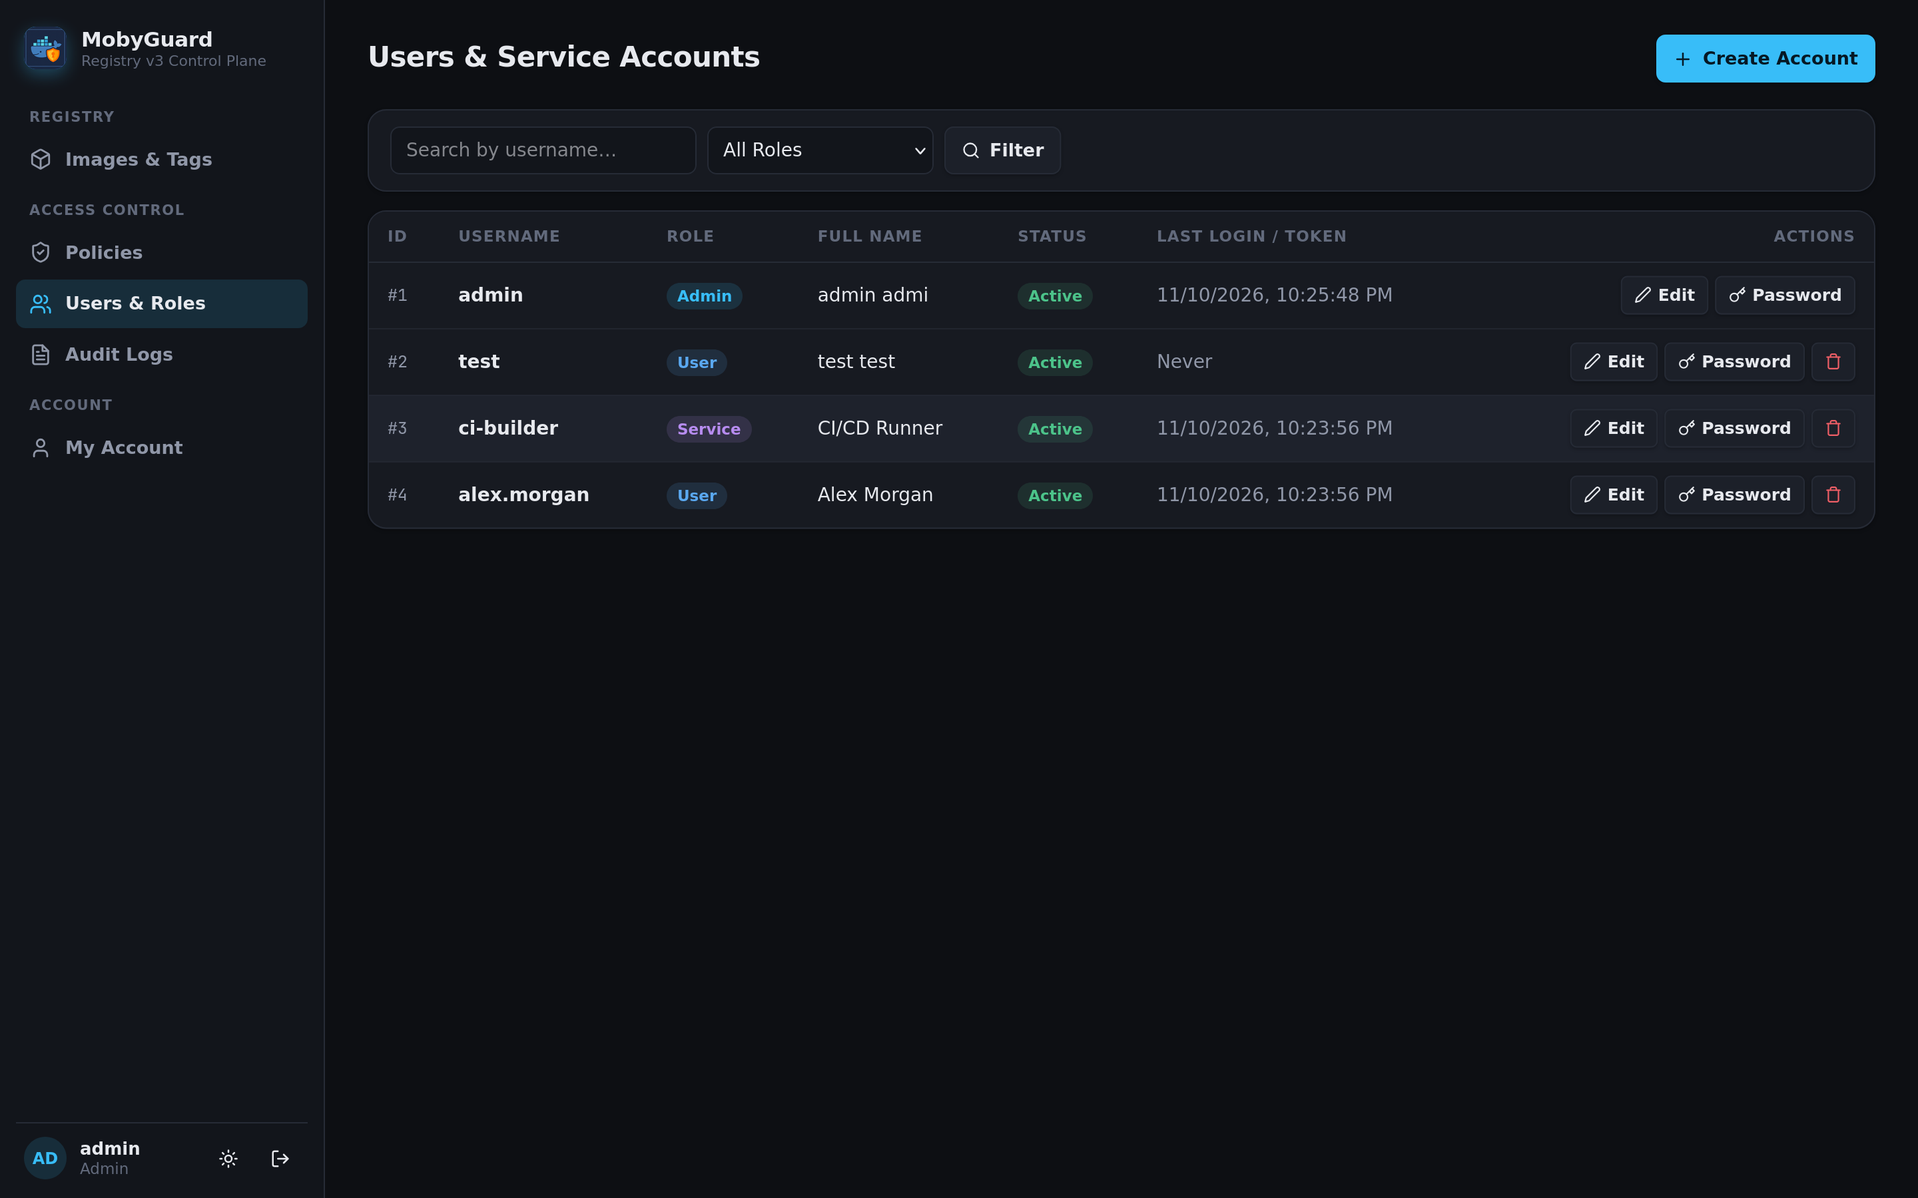
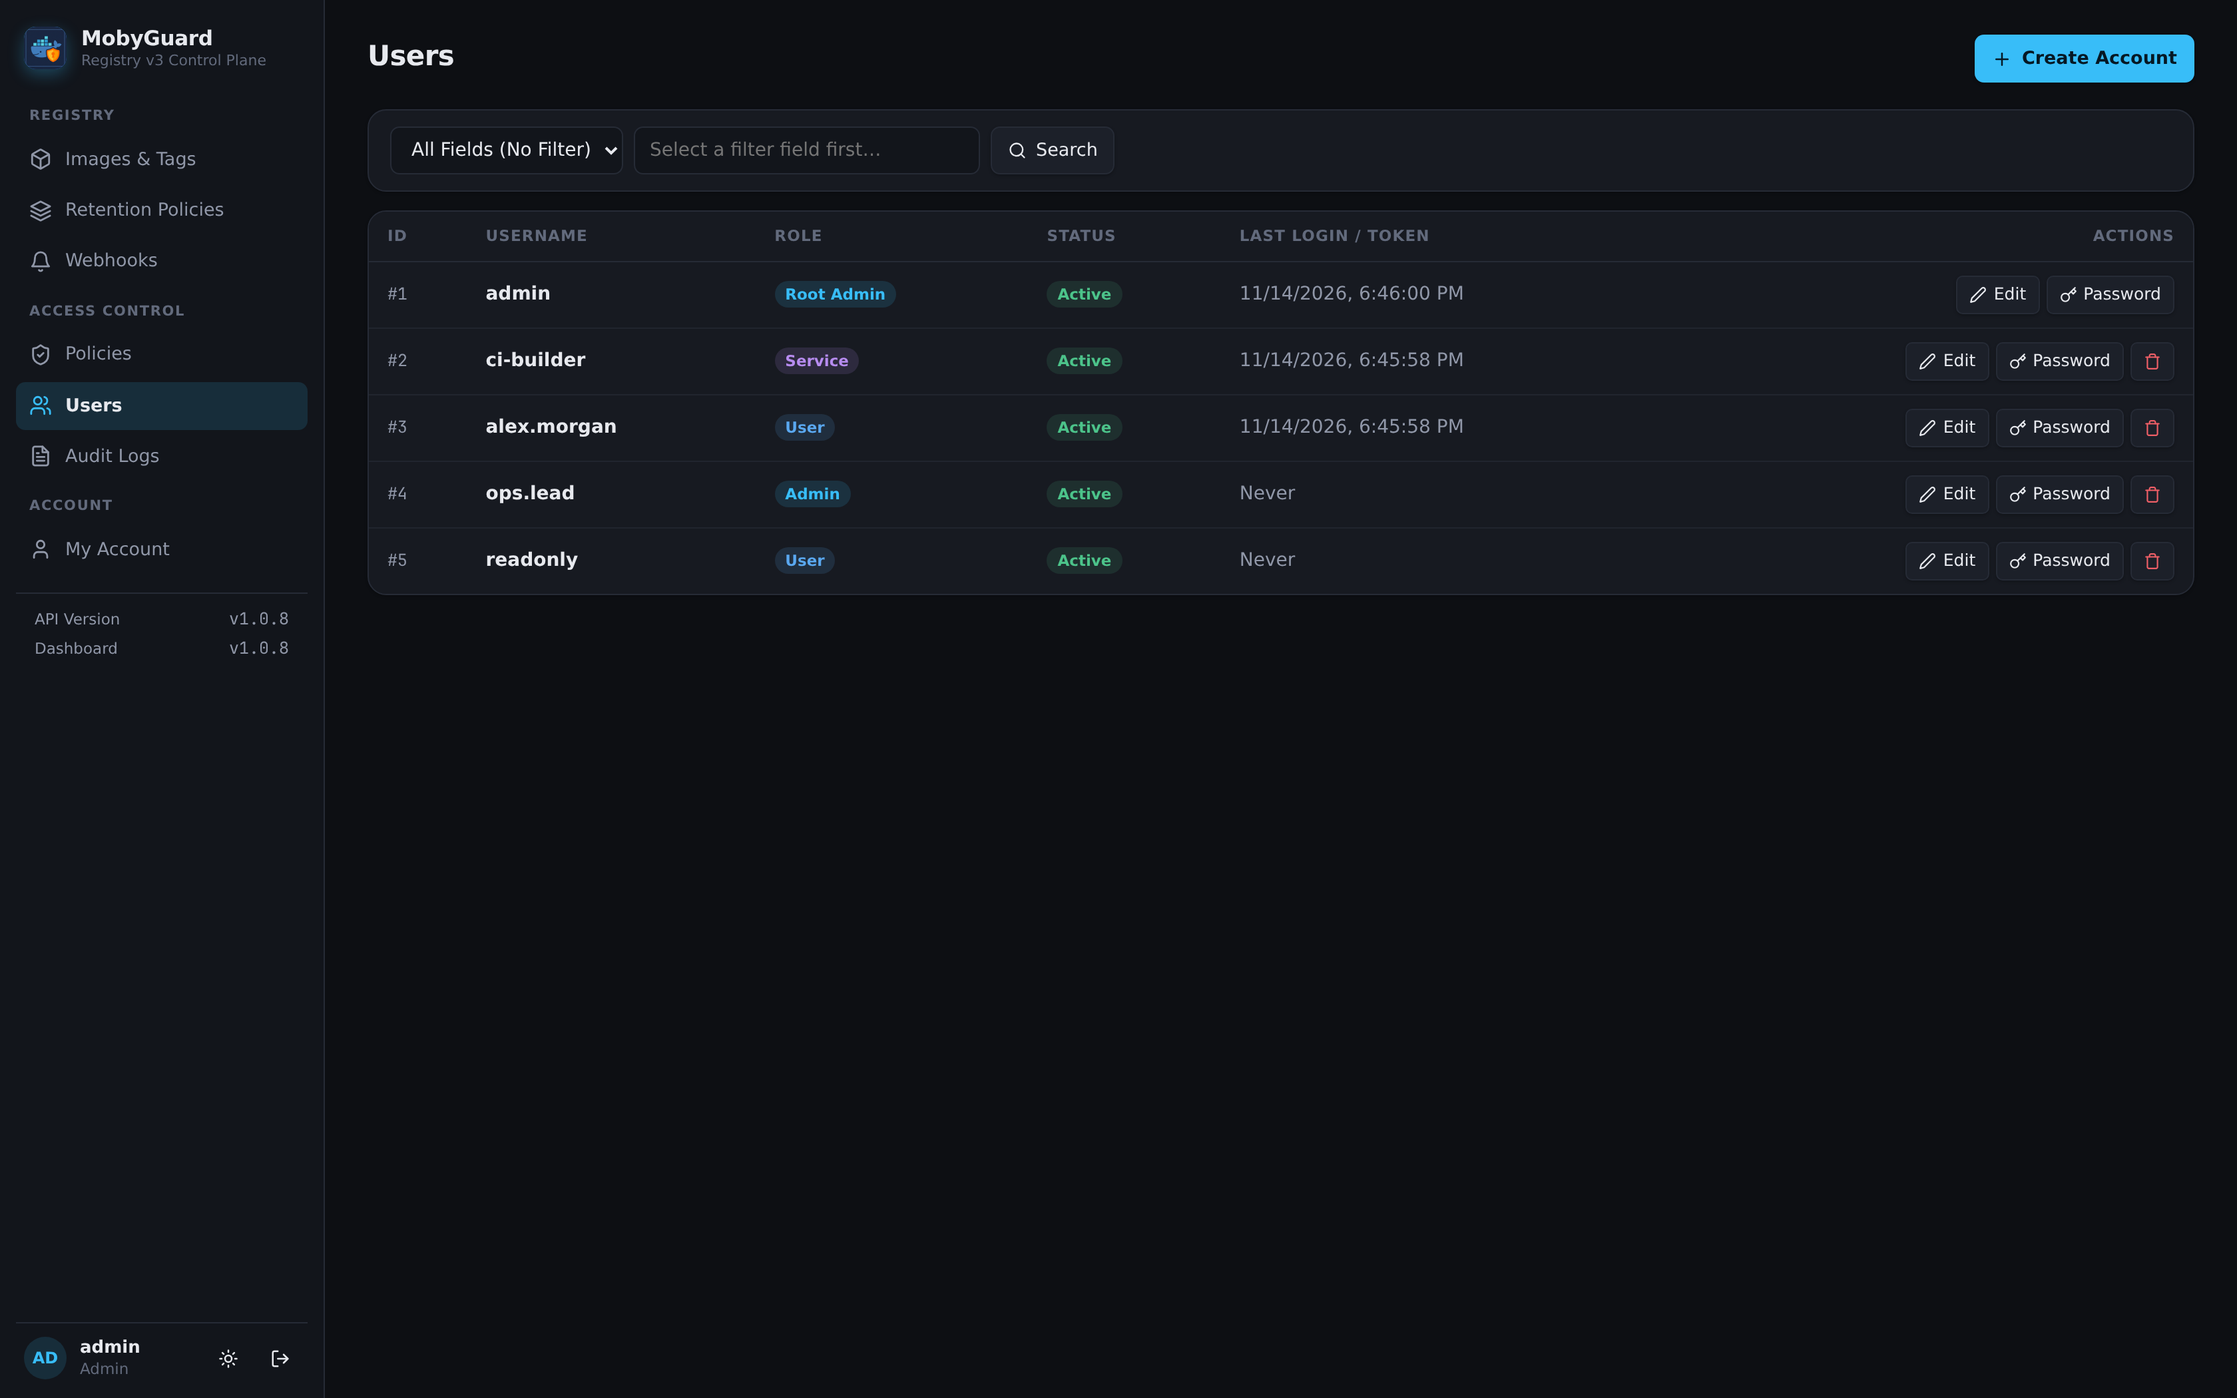
docs: update README, config templates, and UI screenshots for v1.0.8

diff --git a/README.md b/README.md
@@ -6,7 +6,7 @@
 
 <p align="center">
   <b>Lightweight, self-hosted Docker and OCI Registry Control Plane.</b><br />
-  Fine-grained repository access control, ECDSA token authentication, and management dashboard for Docker Distribution.
+  Fine-grained repository access control, ECDSA token authentication, automated tag retention, Slack/Discord/Teams notifications, and management dashboard for Docker Distribution.
 </p>
 
 <p align="center">
@@ -14,7 +14,7 @@
   <img src="https://img.shields.io/badge/React-19-61DAFB?logo=react&logoColor=black" alt="React 19" />
   <img src="https://img.shields.io/badge/Docker-Registry_v2%2Fv3-2496ED?logo=docker&logoColor=white" alt="Docker Registry" />
   <img src="https://img.shields.io/badge/SQLite-3-003B57?logo=sqlite&logoColor=white" alt="SQLite" />
-  <img src="https://img.shields.io/badge/coverage-87.4%25-brightgreen" alt="Code Coverage" />
+  <img src="https://img.shields.io/badge/coverage-86.85%25-brightgreen" alt="Code Coverage" />
   <img src="https://img.shields.io/badge/License-MIT-green.svg" alt="License" />
 </p>
 
@@ -31,13 +31,13 @@ Organizations deploying private Docker registries typically face two limitations
 * **Docker Registry & CNCF Distribution (`registry:2` / `registry:3`) Limitations**:
   * Relies on basic `htpasswd` authentication, granting all-or-nothing access to all images.
   * Lacks repository-level authorization and cannot restrict user permissions by namespace.
-  * Does not provide a web management interface for browsing tags, inspecting manifests, or deleting images.
+  * Does not provide a web management interface, automated tag cleanup policies, or webhook notifications.
 
 * **Enterprise Registry Suites (e.g., Harbor) Overhead**:
   * Requires substantial server resources (6 to 8 containers, 4GB to 8GB+ RAM).
   * Involves complex deployment charts and operational maintenance overhead.
 
-**MobyGuard provides a focused solution**: A lightweight, single-appliance control plane (~80MB RAM) that adds native Docker Registry v2 token authentication, fine-grained access control lists, and an administrative dashboard directly on top of vanilla Docker Distribution.
+**MobyGuard provides a focused solution**: A lightweight, single-appliance control plane (~80MB RAM) that adds native Docker Registry v2 token authentication, fine-grained access control lists, scheduled tag retention, multi-platform notifications, and an administrative dashboard directly on top of vanilla Docker Distribution.
 
 ---
 
@@ -52,57 +52,76 @@ Organizations deploying private Docker registries typically face two limitations
   * Per-user policy scoping supporting exact matches (`team-a/backend`), namespace wildcards (`team-a/*`), or global access (`*`).
   * Granular action control with independent toggles for **Pull**, **Push**, and **Delete** capabilities.
 
-* **Web Management Dashboard**:
-  * Catalog exploration with RFC 5988 pagination supporting large-scale registries (10,000+ repositories).
-  * OCI and Docker v2 manifest inspection, including media types, digest checksums, layer sizes, and container configurations.
-  * Image tag deletion workflows directly from the interface.
+* **Multi-Arch Web Management Dashboard & GC Tracking**:
+  * Single-flight catalog discovery with 15-second caching, RFC 5988 pagination, live search, and force refresh.
+  * OCI & Docker v2 manifest inspection with multi-architecture index platform switching (`linux/amd64`, `linux/arm64`, etc.), Buildx attestation classification, container configuration details, and layer breakdown.
+  * Pending Garbage Collection tracking banner with one-click copyable CLI cleanup command and admin GC acknowledgment.
 
-* **User and Service Account Management**:
-  * User account provisioning with role assignments (`Admin`, `User`).
-  * Dedicated headless accounts (`Service`) designed for CI/CD automation pipelines (GitHub Actions, GitLab CI, Drone).
+* **Automated Tag & Repository Retention Policies**:
+  * Pattern-scoped policies (`*`, `namespace/*`, exact repo) with configurable `Keep Last N` counts, `Max Age (Days)` thresholds, and comma-separated protected tag globs (e.g., `latest,v*,prod-*`).
+  * **Shared-Digest Safety**: Refuses to delete any manifest digest still referenced by a kept or protected tag.
+  * Interactive **Dry Run** previews plus a background scheduler supporting **Manual Only**, **Hourly**, **Daily**, **Weekly**, and **Monthly** intervals.
 
-* **Security Architecture**:
-  * High-iteration `PBKDF2-HMAC-SHA512` password hashing with unique per-user cryptographic salts.
-  * 15-minute JWT lifetime with SQLite-backed refresh token rotation and instant in-memory access token revocation.
-  * In-memory brute-force lockout protection via .NET `IMemoryCache`.
+* **Inbound Registry Events & Outbound Webhooks**:
+  * **Inbound Registry Webhook Receiver** (`POST /api/v1/Registry/events`): Ingests Docker Distribution notifications with optional constant-time `WebhookSecret` verification, records CLI `push` / `pull` / `delete` events with client IPs, and invalidates cached catalog/tags.
+  * **Outbound Webhook Notifications**: Delivers formatted notifications for **Slack** (Block Kit), **Discord** (rich embeds), and **Microsoft Teams** (Workflows Adaptive Cards) filtered by repository pattern and trigger (`Push`, `Delete`, `Retention`), with built-in test delivery status tracking.
+
+* **User, Service Account & Root Admin Governance**:
+  * Dedicated human (`Admin`, `User`) and headless CI/CD (`Service`) accounts, with bootstrap **Root Admin (`Id == 1`) protection** blocking deletion, demotion, deactivation, or modification by secondary admins.
+  * High-iteration `PBKDF2-HMAC-SHA512` password hashing, strict password complexity + common/username blacklist enforcement, 15-minute JWTs with single-use hashed refresh token rotation, and IP brute-force lockouts.
+  * Unified dropdown filter bars across Users, Policies, Retention Policies, Webhooks, and Audit Logs, plus light/dark themes.
 
 * **Audit Logging**:
-  * Structured audit trail recording token issuances, image deletions, user creations, and policy changes.
+  * Searchable audit trail recording token issuances, manifest pushes/pulls/deletes, user & policy mutations, retention executions, and GC acknowledgments.
 
 ---
 
 ## Screenshots
 
 ### Images & Manifest Inspector
-Browse catalog repositories, inspect OCI and Docker v2 image tags, examine layer sizes, and retrieve pull commands:
+Browse catalog repositories, inspect multi-arch OCI and Docker v2 manifests, examine layers and container config settings, and track pending garbage collection:
 
 <p align="center">
   <img src="docs/screenshots/repositories.png" alt="Images & Manifests" />
 </p>
 
+### Retention Policies & Scheduler
+Configure namespace-scoped tag cleanup rules, protect release tags, preview changes with Dry Run, and automate runs Hourly, Daily, Weekly, or Monthly:
+
+<p align="center">
+  <img src="docs/screenshots/retention-policies.png" alt="Retention Policies" />
+</p>
+
+### Outbound Webhooks (Slack, Discord & Microsoft Teams)
+Route repository `push`, `delete`, and `retention` notifications to Slack, Discord, or Microsoft Teams with live delivery testing:
+
+<p align="center">
+  <img src="docs/screenshots/webhooks.png" alt="Outbound Webhooks" />
+</p>
+
 ### Access Control Policies
-Manage per-user repository authorization rules with exact or wildcard (`namespace/*`) patterns and granular Pull, Push, and Delete toggles:
+Manage per-user repository authorization rules with exact or wildcard (`namespace/*`) patterns, dropdown filtering, and granular Pull, Push, and Delete toggles:
 
 <p align="center">
   <img src="docs/screenshots/policies.png" alt="Repository Access Control" />
 </p>
 
 ### User & Service Account Management
-Provision human operator accounts and dedicated headless service accounts for CI/CD automation pipelines:
+Provision human operator accounts with Root Admin protection and dedicated headless service accounts for CI/CD automation pipelines:
 
 <p align="center">
   <img src="docs/screenshots/users.png" alt="User Management" />
 </p>
 
 ### Audit Trail
-Monitor token issuances, administrative actions, client IP addresses, and timestamps:
+Monitor token issuances, CLI image pushes/pulls/deletes, retention runs, and administrative actions with client IP addresses and timestamps:
 
 <p align="center">
   <img src="docs/screenshots/audit-logs.png" alt="Audit Logs" />
 </p>
 
 ### Authentication Interface
-Clean sign-in interface with ECDSA token authentication and administrative onboarding:
+Clean sign-in interface with ECDSA token authentication and initial admin onboarding:
 
 <p align="center">
   <img src="docs/screenshots/login.png" alt="Sign In" />
@@ -128,21 +147,26 @@ Clean sign-in interface with ECDSA token authentication and administrative onboa
             /api/* (Control) │               │ 3. Stream Layers /v2/*
                              ▼               ▼    (Bearer Token Auth)
                    ┌───────────────────┐   ┌───────────────────┐
-                   │     MobyGuard     │   │  Docker Registry  │
+                   │     MobyGuard     │◄──┤  Docker Registry  │
                    │  (Auth & Web UI)  │   │ (registry:2 / v3) │
-                   └─────────┬─────────┘   └─────────┬─────────┘
-                             │                       │
-                             ▼                       ▼
-                       ┌───────────┐           ┌───────────┐
-                       │  SQLite   │           │  Storage  │
-                       │(Database) │           │  Volume   │
-                       └───────────┘           └───────────┘
+                   └────┬─────────┬────┘   └─────────┬─────────┘
+                        │         │ (Events /v1)     │
+                        │         ▼                  ▼
+                        │   ┌───────────┐      ┌───────────┐
+                        │   │  Slack /  │      │  Storage  │
+                        │   │  Discord  │      │  Volume   │
+                        │   │  / Teams  │      └───────────┘
+                        │   └───────────┘
+                        ▼
+                  ┌───────────┐
+                  │  SQLite   │
+                  │(Database) │
+                  └───────────┘
 ```
 
 * **Step 1 (Token Request)**: The Docker client requests an access token from MobyGuard (`/api/v1/Token`) using HTTP Basic authentication.
 * **Step 2 (Token Issuance)**: MobyGuard evaluates the user's repository permissions in SQLite and returns a cryptographically signed ECDSA `ES256` Bearer JWT.
-* **Step 3 (Layer Streaming)**: The Docker client presents the Bearer token directly to Docker Registry (`/v2/`), which verifies the signature and streams image layer blobs directly to storage.
-* **Control Plane Isolation**: MobyGuard handles authentication, authorization policy evaluation, user management, and dashboard operations without bottlenecking image layer transfers.
+* **Step 3 (Layer Streaming & Notifications)**: The Docker client presents the Bearer token directly to Docker Registry (`/v2/`), which verifies the signature and streams image layer blobs directly to storage. Optional Distribution notifications forward push/pull/delete events to MobyGuard (`POST /api/v1/Registry/events`), triggering audit logs, cache invalidation, and Slack/Discord/Teams alerts.
 
 ---
 
@@ -175,15 +199,6 @@ chmod 644 certs/*
   * Mounted into both MobyGuard and the Docker Registry container.
   * Docker Registry uses this certificate as its root trust bundle to verify the signature of incoming Bearer tokens without requiring access to the private key.
 
-#### Parameter Breakdown
-* `-x509`: Generates a self-signed X.509 certificate directly instead of a certificate signing request.
-* `-newkey ec -pkeyopt ec_paramgen_curve:prime256v1`: Generates an ECDSA private key using the NIST P-256 curve.
-* `-sha256`: Signs the certificate using the SHA-256 digest algorithm.
-* `-nodes`: Stores the private key unencrypted so container services can load it unattended on startup.
-* `-days 3650`: Sets a 10-year validity period for internal service authentication.
-* `-subj "/CN=mobyguard-token-issuer"`: Sets the subject Common Name matching the configured token issuer.
-* `chmod 644 certs/*`: Grants read access to the container process while preventing unauthorized host modifications.
-
 #### Upstream Docker Registry Configuration
 To configure Docker Registry (or CNCF Distribution) to authenticate via MobyGuard using this certificate, apply the following settings to your registry container:
 
@@ -199,8 +214,23 @@ volumes:
   - ./certs/registry-auth.crt:/certs/registry-auth.crt:ro
 ```
 
+*(Optional — Recommended for real-time audit logs, cache invalidation, GC tracking, and Slack/Discord/Teams push alerts)*: Configure Docker Distribution's webhook notifications to forward events to MobyGuard:
+
+```yaml
+notifications:
+  endpoints:
+    - name: mobyguard
+      url: http://mobyguard:5090/api/v1/Registry/events
+      headers:
+        X-Registry-Webhook-Secret:
+          - your_shared_webhook_secret
+      timeout: 2s
+      threshold: 3
+      backoff: 1s
+```
+
 ### 2. Configure `compose.yml`
-Save the following configuration as `compose.yml`:
+Save the following configuration as `compose.yml` *(when running behind a reverse proxy on the same host, prefer binding `127.0.0.1:${API_PORT:-5090}:5090` so external callers cannot bypass proxy headers)*:
 
 ```yaml
 services:
@@ -216,6 +246,7 @@ services:
     environment:
       ConnectionStrings__DefaultConnection: ${SQLITE_CONN_STRING:-Data Source=/app/data/mobyguard.db}
       RegistryTokenOptions__RegistryUrl: ${REGISTRY_URL}
+      RegistryTokenOptions__WebhookSecret: ${REGISTRY_WEBHOOK_SECRET:-}
       JwtOptions__SecurityKey: ${JWT_SECURITY_KEY}
     healthcheck:
       test: ["CMD", "curl", "-f", "http://localhost:5090/api/v1/health"]
@@ -236,7 +267,7 @@ networks:
 ```
 
 ### 3. Configure Environment Variables
-Create a `.env` file in the same directory (or copy from `.env.example`):
+Create a `.env` file in the same directory (or copy from [`.env.example`](.env.example)):
 
 ```bash
 cat << 'EOF' > .env
@@ -246,14 +277,18 @@ SQLITE_CONN_STRING=Data Source=/app/data/mobyguard.db
 # Upstream Docker Registry / CNCF Distribution URL
 REGISTRY_URL=http://registry:5000
 
+# Optional shared secret for inbound Registry events (POST /api/v1/Registry/events)
+REGISTRY_WEBHOOK_SECRET=
+
 # Web UI Authentication (minimum 32 characters)
 JWT_SECURITY_KEY=generate_a_secure_random_32_character_security_key_here!
 EOF
 ```
 
 * **`SQLITE_CONN_STRING`**: Connection string used by MobyGuard for its embedded SQLite database (stored in the `sqlite-data` volume at `/app/data/mobyguard.db`).
-* **`JWT_SECURITY_KEY`**: Set a cryptographically secure random string with at least 32 characters (e.g., generated with `openssl rand -base64 32`).
-* **`REGISTRY_URL`**: Set the URL of your Docker Registry or CNCF Distribution instance.
+* **`REGISTRY_URL`**: URL of your Docker Registry or CNCF Distribution instance.
+* **`REGISTRY_WEBHOOK_SECRET`**: Optional shared secret validated by `POST /api/v1/Registry/events` (`X-Registry-Webhook-Secret` header or `Authorization: Bearer`).
+* **`JWT_SECURITY_KEY`**: Cryptographically secure random string with at least 32 characters (e.g., generated with `openssl rand -base64 32`).
 
 ### 4. Deploy the Services
 Ensure the shared Docker bridge network exists and start the containers:
@@ -265,7 +300,7 @@ docker compose up -d
 
 ### 5. Initialize the Administrator Account
 * Navigate to `http://localhost:5090` in your web browser.
-* Complete the initial administrator setup form.
+* Complete the initial root administrator setup form (`Id == 1`).
 
 ---
 
@@ -326,12 +361,12 @@ For headless CI/CD systems (GitHub Actions, GitLab CI, Drone, Jenkins):
 
 ## Tech Stack
 
-* **Backend**: [.NET 10 (C#)](https://dotnet.microsoft.com/) — ASP.NET Core Web API with Microsoft OpenAPI.
+* **Backend**: [.NET 10 (C#)](https://dotnet.microsoft.com/) — ASP.NET Core Web API with Microsoft OpenAPI, background retention scheduler (`BackgroundService`), and outbound webhook dispatcher (`Slack` / `Discord` / `Teams`).
 * **Frontend**: [React 19](https://react.dev/) + [Vite](https://vitejs.dev/) embedded in `wwwroot`.
-* **Database**: [SQLite](https://www.sqlite.org/) for embedded relational persistence, policy storage, and hashed refresh tokens.
-* **Cache**: Built-in .NET `IMemoryCache` for short-lived JWT revocation (`jti`) and brute-force lockout counters.
-* **Token Signer**: Cryptographic ECDSA `ES256` token signing.
-* **Testing**: Integration testing with xUnit v3, `WebApplicationFactory`, and `Microsoft.Testing.Extensions.CodeCoverage` (~87.4% line coverage).
+* **Database**: [SQLite](https://www.sqlite.org/) for embedded relational persistence, policies, retention rules, webhook subscriptions, audit logs, and hashed refresh tokens.
+* **Cache**: Built-in .NET `IMemoryCache` for short-lived JWT revocation (`jti`), IP lockout counters, and 15-second registry catalog/tag caching.
+* **Token Signer**: Cryptographic ECDSA `ES256` token signing (`libtrust` key IDs & JWKS).
+* **Testing**: 61 integration tests with xUnit v3, `WebApplicationFactory`, and `Microsoft.Testing.Extensions.CodeCoverage` (**86.85%** line coverage).
 
 ---
 
